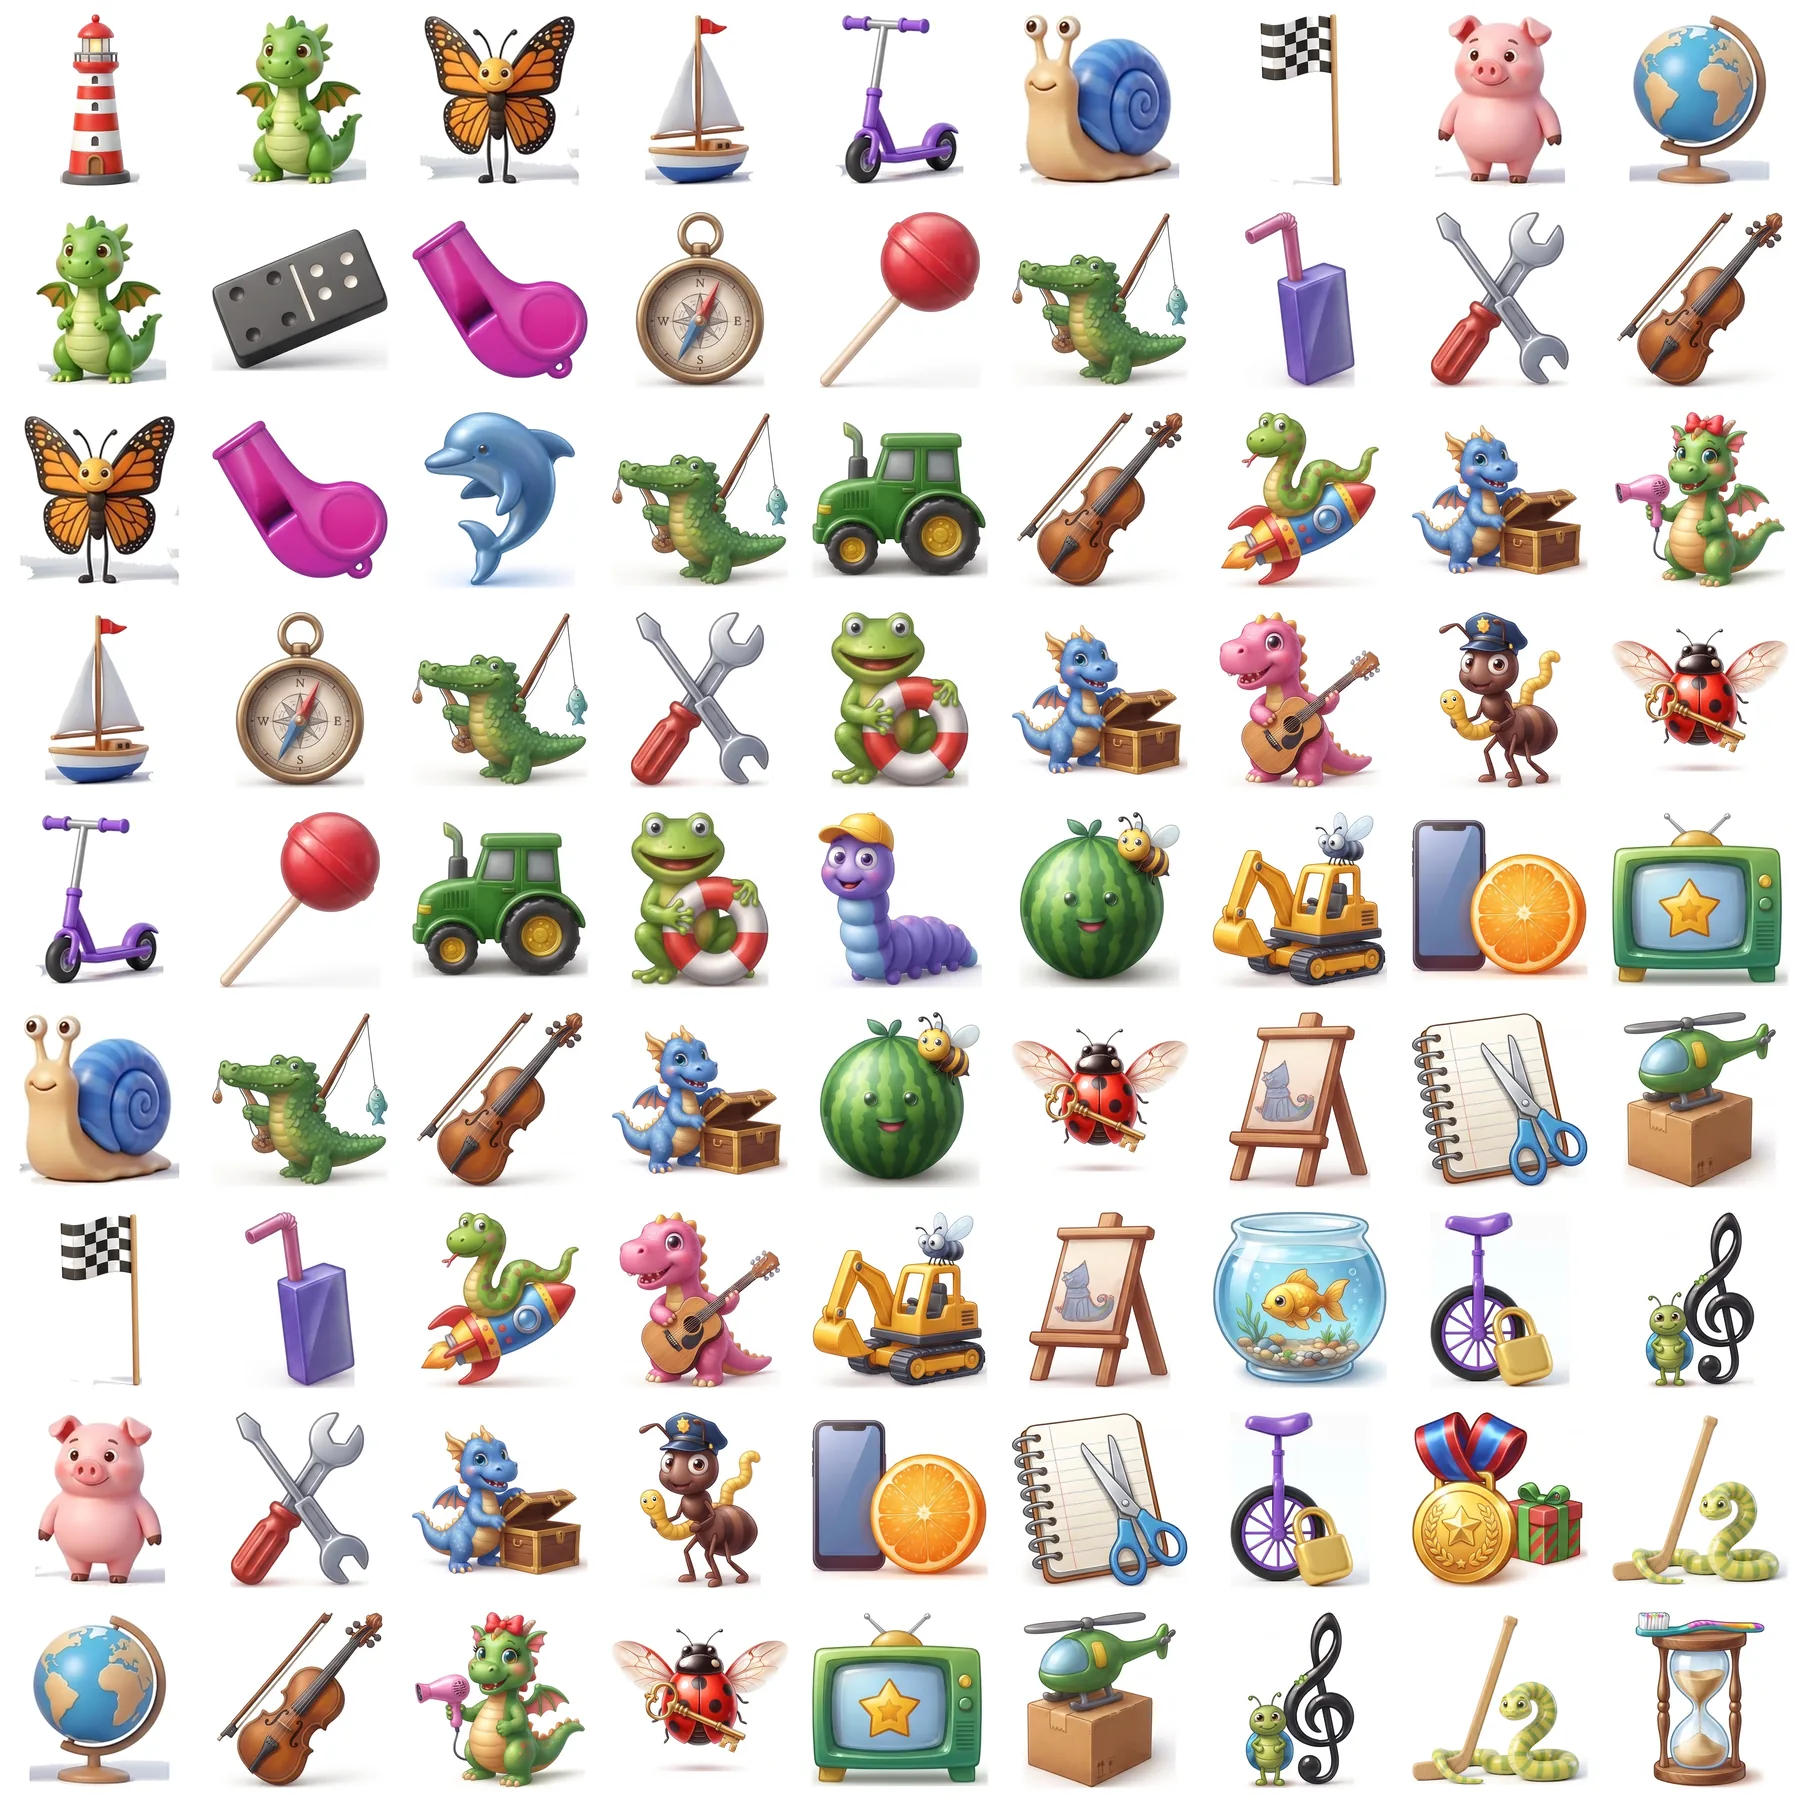
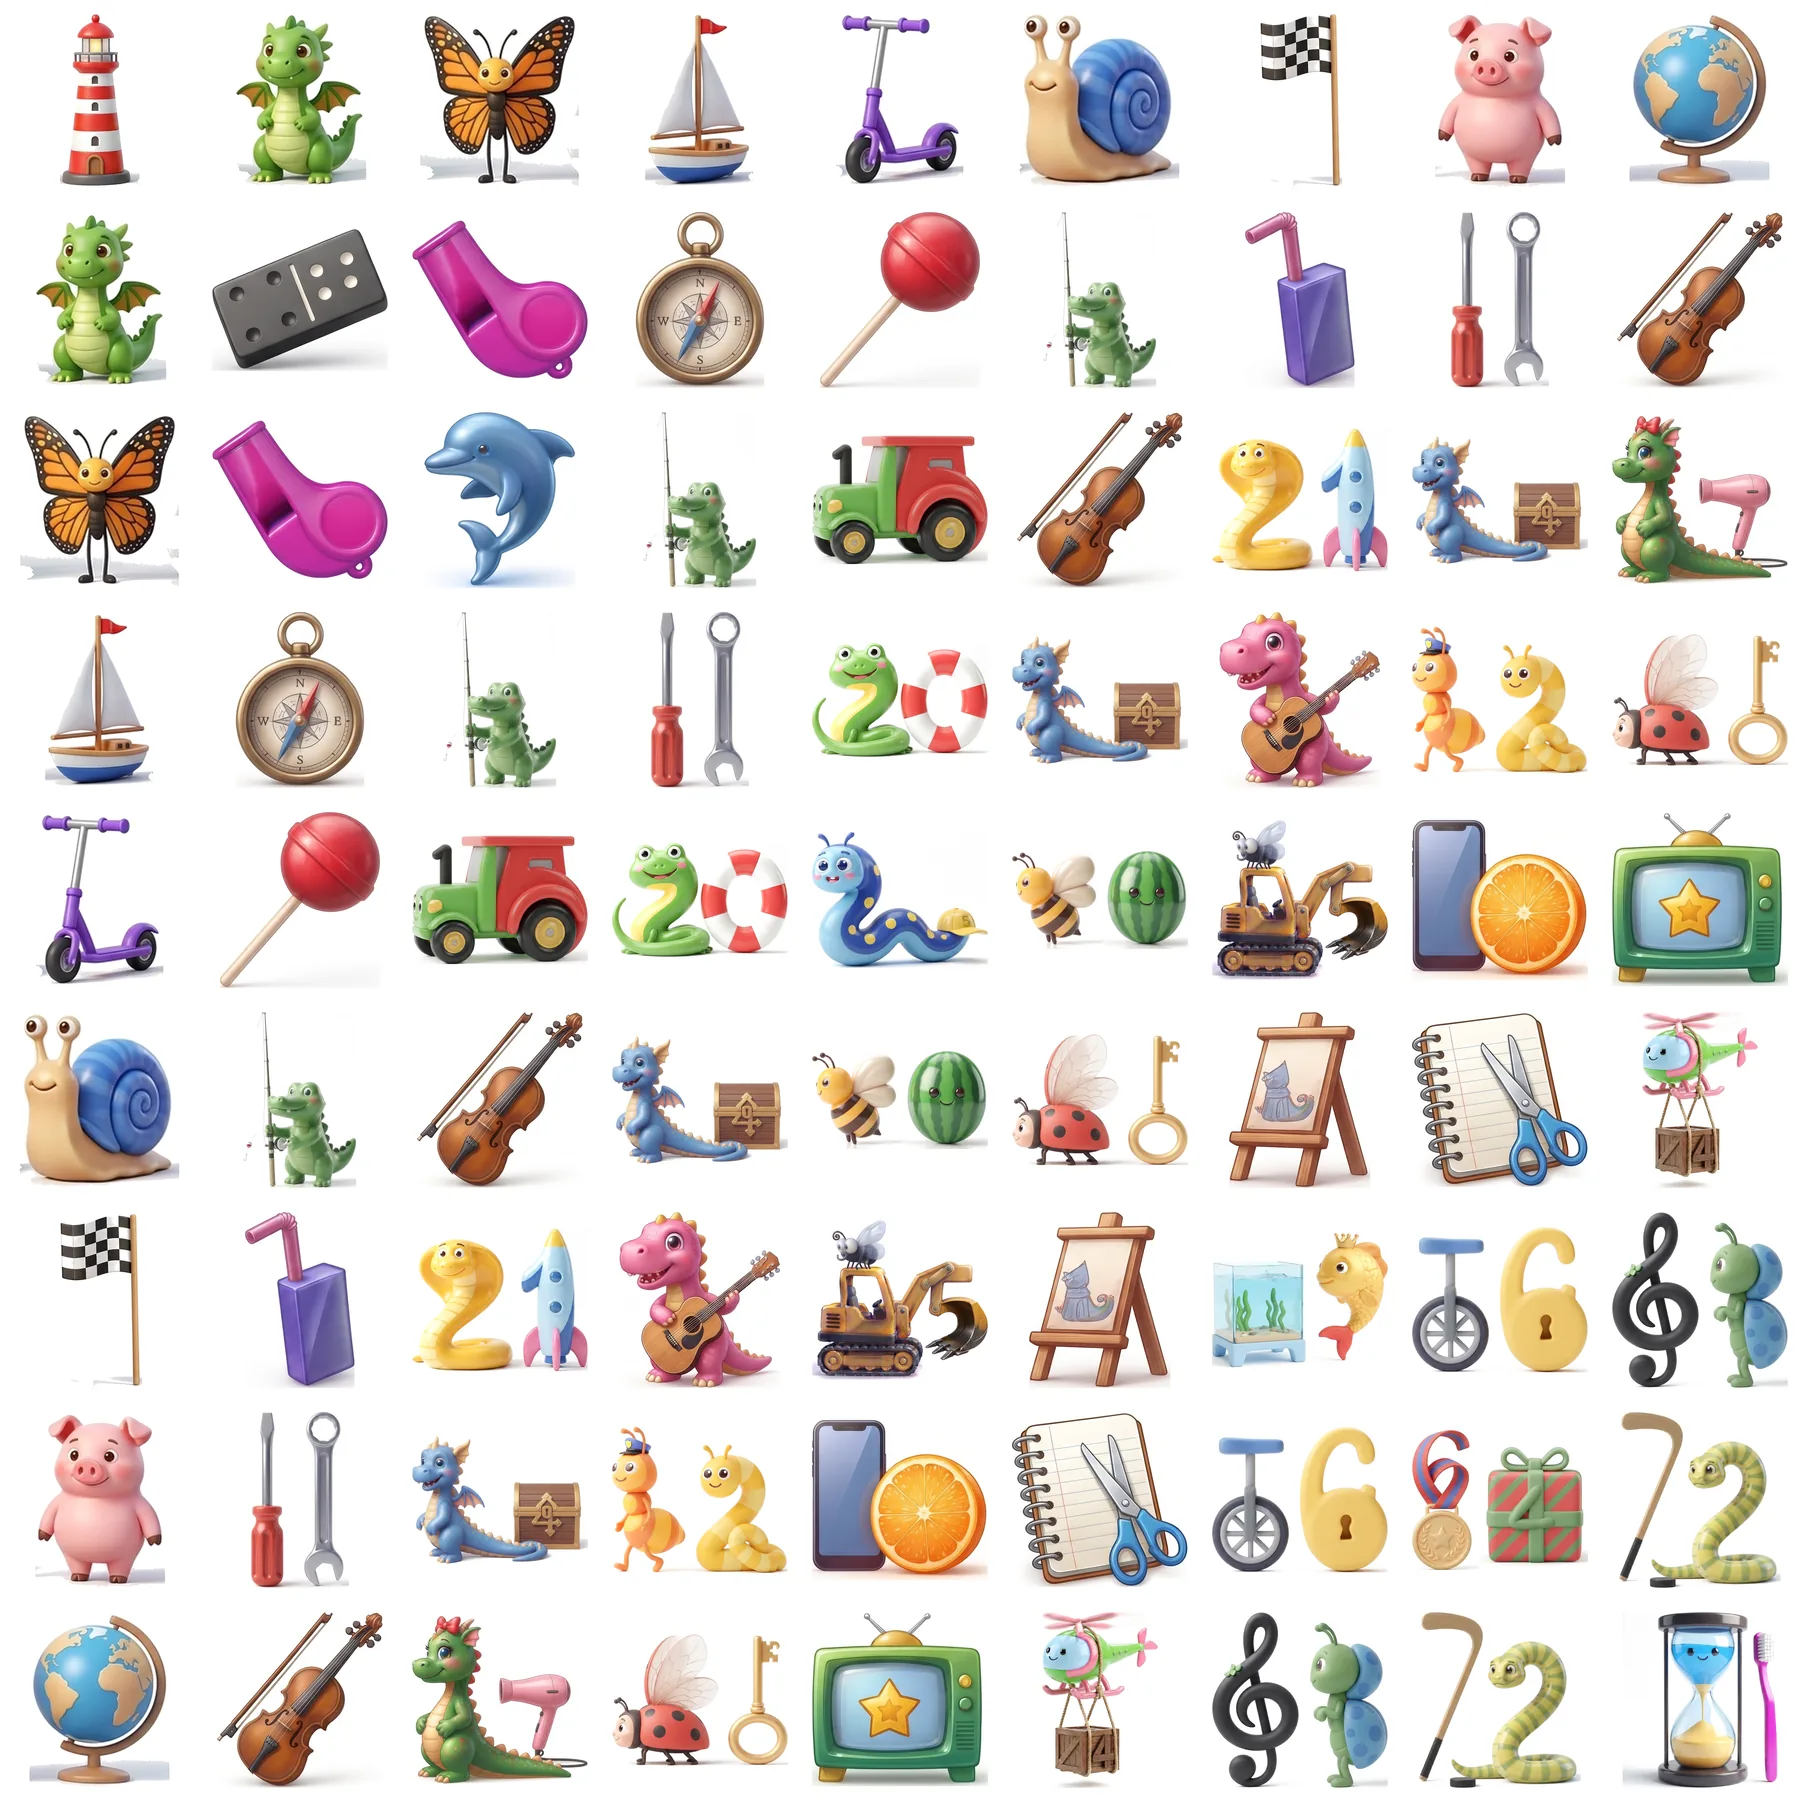
Add files via upload

diff --git a/js/app.js b/js/app.js
@@ -1,12 +1,12 @@
 // Контролер: стан застосунку, екрани, обробка подій.
 
-import { LESSONS, MODES, SEQUENCE, FEEDBACK_MS, ASSETS, getLesson, getMode, modesFor } from './config.js?v=3.3';
-import { createGame, makeChoices, isBetter } from './engine.js?v=3.3';
-import { storage } from './storage.js?v=3.3';
-import { loadProfile, mergeRecords, pushResult, newDeviceId, looksLikeId } from './cloud.js?v=3.3';
-import { textHint, storyImage } from './hints.js?v=3.3';
-import { confetti } from './confetti.js?v=3.3';
-import { neededPieces, recallBank, PRODUCTS, digitQuestions, numberQuestions, makeNumberChoices, storyQuestions } from './pictures.js?v=3.3';
+import { LESSONS, MODES, SEQUENCE, FEEDBACK_MS, ASSETS, getLesson, getMode, modesFor } from './config.js?v=3.4';
+import { createGame, makeChoices, isBetter } from './engine.js?v=3.4';
+import { storage } from './storage.js?v=3.4';
+import { loadProfile, mergeRecords, pushResult, newDeviceId, looksLikeId } from './cloud.js?v=3.4';
+import { textHint, storyImage } from './hints.js?v=3.4';
+import { confetti } from './confetti.js?v=3.4';
+import { neededPieces, recallBank, PRODUCTS, digitQuestions, numberQuestions, makeNumberChoices, storyQuestions } from './pictures.js?v=3.4';
 
 const $ = sel => document.querySelector(sel);
 const el = (tag, attrs = {}, html = '') => Object.assign(document.createElement(tag), attrs, html ? { innerHTML: html } : {});
@@ -701,7 +701,7 @@ const levelPoints = n => Array.from({ length: n }, (_, i) => [
 ]);
 
 const hasArt = name => ASSETS.art.includes(name);
-const artImg = (name, alt = '') => `<img src="${ASSETS.artUrl(name)}?v=3.3" alt="${alt}" loading="lazy" decoding="async">`;
+const artImg = (name, alt = '') => `<img src="${ASSETS.artUrl(name)}?v=3.4" alt="${alt}" loading="lazy" decoding="async">`;
 const stageIdx = (lesson, mode) => SEQUENCE.indexOf(stageKey(lesson, mode));
 const progressIdx = () => Math.max(0, SEQUENCE.indexOf(app.profile.progress));
 
@@ -849,6 +849,6 @@ function boot() {
   openMap();        // одразу показуємо карту з локальних даних…
   sync();           // …а хмару підтягуємо фоном
   // Підвантажити спрайт картинок, поки дитина обирає урок
-  (window.requestIdleCallback || setTimeout)(() => { new Image().src = 'assets/tiles.webp?v=3.3'; });
+  (window.requestIdleCallback || setTimeout)(() => { new Image().src = 'assets/tiles.webp?v=3.4'; });
 }
 boot();

diff --git a/index.html b/index.html
@@ -10,8 +10,8 @@
   <link rel="preconnect" href="https://fonts.googleapis.com">
   <link rel="preconnect" href="https://fonts.gstatic.com" crossorigin>
   <link rel="stylesheet" href="https://fonts.googleapis.com/css2?family=Comfortaa:wght@600;700&display=swap">
-  <link rel="stylesheet" href="css/style.css?v=3.3">
-  <script type="module" src="js/app.js?v=3.3"></script>
+  <link rel="stylesheet" href="css/style.css?v=3.4">
+  <script type="module" src="js/app.js?v=3.4"></script>
 </head>
 <body>
   <main class="card" id="app" aria-live="polite">
@@ -51,7 +51,7 @@
         <div class="stage__nodes"></div>
       </div>
       <p class="stage-note muted" id="map-note"></p>
-      <p class="version">версія 3.3</p>
+      <p class="version">версія 3.4</p>
     </section>
 
     <!-- 3. Локація (урок) -->
@@ -97,7 +97,7 @@
       </div>
 
       <button class="btn btn--primary btn--block btn--big" id="btn-start" type="button">Старт</button>
-      <p class="version">версія 3.3</p>
+      <p class="version">версія 3.4</p>
     </section>
 
     <!-- 5. Гра -->

diff --git a/css/style.css b/css/style.css
@@ -194,12 +194,12 @@ code { font-family: ui-monospace, SFMono-Regular, Menlo, monospace; font-size: .
 /* Картинки-плитки з одного спрайта 9×9 */
 .tile {
   display: inline-block; width: var(--tile); height: var(--tile); border-radius: 10px; flex: none;
-  background-image: url("../assets/tiles.webp?v=3.3");
+  background-image: url("../assets/tiles.webp?v=3.4");
   background-size: calc(var(--tile) * 9) calc(var(--tile) * 9);
   background-position: calc(var(--c) * var(--tile) * -1) calc(var(--r) * var(--tile) * -1);
   background-color: var(--soft);
 }
-.tile--zero { background-image: url("../assets/zero.webp?v=3.3"); background-size: cover; background-position: center; }
+.tile--zero { background-image: url("../assets/zero.webp?v=3.4"); background-size: cover; background-position: center; }
 
 .choices { display: grid; grid-template-columns: 1fr 1fr; gap: 10px; }
 .choice {

diff --git a/js/cloud.js b/js/cloud.js
@@ -2,8 +2,8 @@
 // Головна відмінність: хмара більше НЕ блокує запуск. Інтерфейс показується одразу
 // з локальних даних, а відповідь хмари підмішується, коли (і якщо) прийде.
 
-import { CLOUD_URL, CLOUD_TIMEOUT_MS } from './config.js?v=3.3';
-import { isBetter } from './engine.js?v=3.3';
+import { CLOUD_URL, CLOUD_TIMEOUT_MS } from './config.js?v=3.4';
+import { isBetter } from './engine.js?v=3.4';
 
 export function newDeviceId() {
   const rnd = crypto.getRandomValues(new Uint32Array(2));

diff --git a/js/pictures.js b/js/pictures.js
@@ -5,7 +5,7 @@
 // Таблиця симетрична, і добутки з множниками ≥ 2 мають спільну картинку (2×6 і 3×4 — крокодил з вудкою).
 // А от «число 6» (1×6, равлик) і «добуток 2×3» (свисток) — різні картинки. Тому порівнюємо не числа, а картинки.
 
-import { shuffle } from './engine.js?v=3.3';
+import { shuffle } from './engine.js?v=3.4';
 
 /** Ідентифікатор картинки клітинки (r, c). */
 export function pictureId(r, c) {

diff --git a/js/engine.js b/js/engine.js
@@ -1,7 +1,7 @@
 // Ігрова логіка без DOM: черга прикладів, перевірка відповідей, бали, життя, результат.
 // Завдяки цьому її можна тестувати окремо (див. tests/engine.test.mjs).
 
-import { SCORING } from './config.js?v=3.3';
+import { SCORING } from './config.js?v=3.4';
 
 export function shuffle(arr, rng = Math.random) {
   const a = arr.slice();

diff --git a/js/hints.js b/js/hints.js
@@ -1,4 +1,4 @@
-import { ASSETS } from './config.js?v=3.3';
+import { ASSETS } from './config.js?v=3.4';
 // Текстові підказки-асоціації. Ключ — менший×більший множник (симетрія враховується автоматично).
 export const HINTS = {
   "2x2": "доміно (в яку гру грали два дракончики?)",
